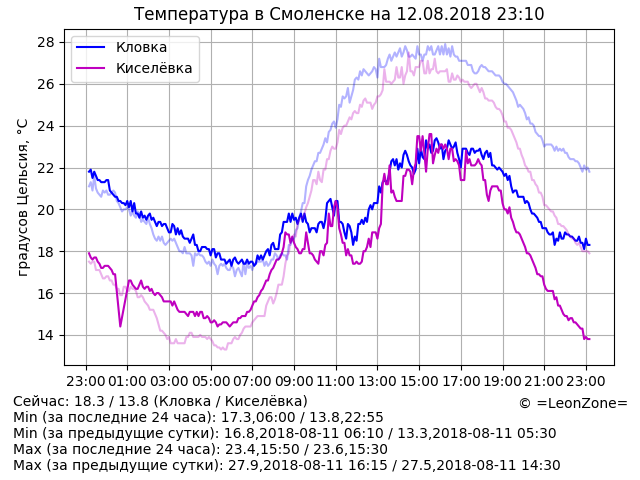
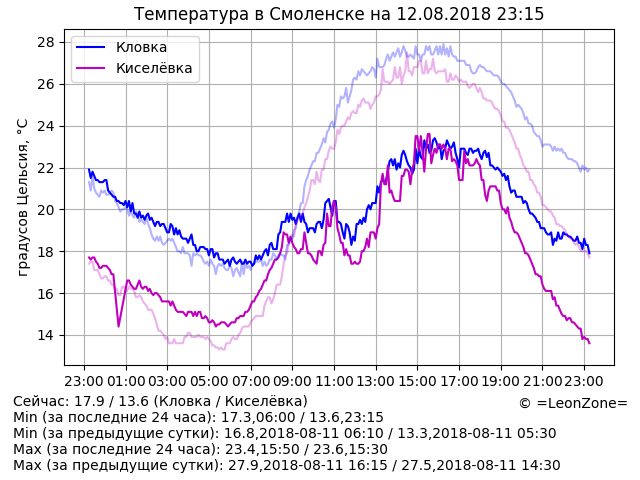
Update data

diff --git a/index.html b/index.html
@@ -14,8 +14,8 @@
 	<p align="center"><script>document.write("<img src=\"graph.png?rnd="+Math.random()+"\" alt=\"Температура в Смоленске\" align=\"middle\" width=\"640\" height=\"480\" />")</script>
 	<p hidden="true">
 <!-- textinfo -->
-Сейчас: 18.3 / 13.8 (Кловка / Киселёвка)
-Min (за последние 24 часа): 17.3,06:00 / 13.8,22:55
+Сейчас: 17.9 / 13.6 (Кловка / Киселёвка)
+Min (за последние 24 часа): 17.3,06:00 / 13.6,23:15
 Min (за предыдущие сутки): 16.8,2018-08-11 06:10 / 13.3,2018-08-11 05:30
 Max (за последние 24 часа): 23.4,15:50 / 23.6,15:30
 Max (за предыдущие сутки): 27.9,2018-08-11 16:15 / 27.5,2018-08-11 14:30
